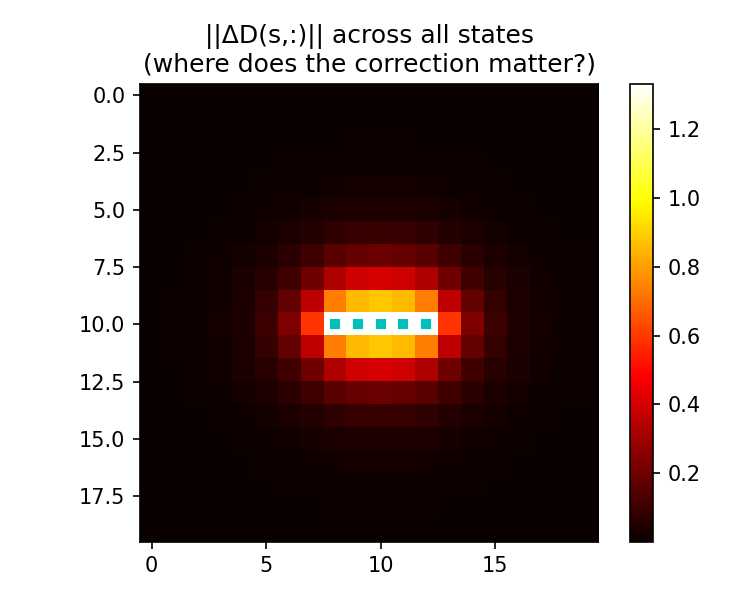
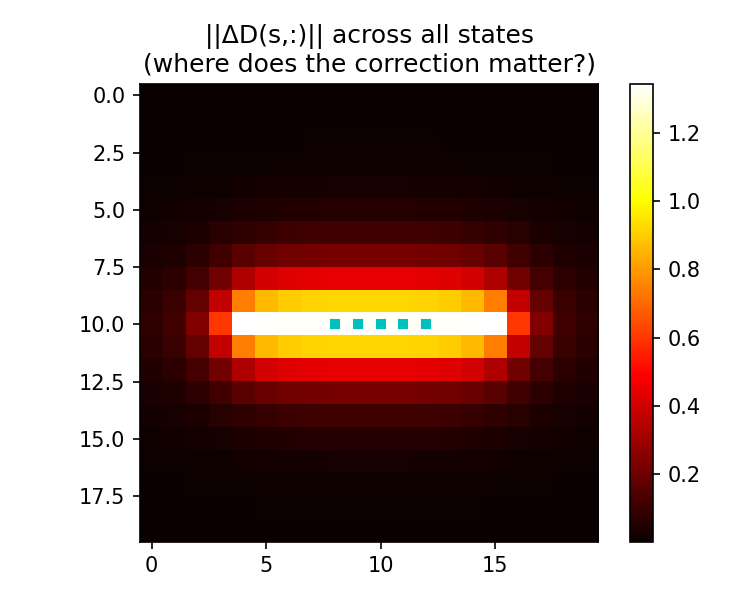
trying to get minigrid wrapper working

diff --git a/src/test_minigrid_baseline.py b/src/test_minigrid_baseline.py
@@ -1,106 +1,131 @@
+# Supress warnings
+import warnings
+warnings.filterwarnings("ignore", category=UserWarning, module="pygame")
+
 import os
 import sys
 
 import numpy as np
 import matplotlib.pyplot as plt
 
-
-
-sys.path.append(os.path.dirname(os.path.abspath(__file__)))
-
 from envs.barrier_grid import create_open_env, create_baseline_env_with_barrier
-from utils import get_complete_DR
 from networks.repair import RepairNetworkLinear
+from utils import get_complete_DR
 
-# Create environments
-print("Creating open environment (20x20)...")
+# Make environments
 env_open = create_open_env(size=22)  # 20x20 internal + 2 boundary walls
 env_open.reset()
-
-print("Creating environment with barrier...")
 env_barrier = create_baseline_env_with_barrier()
 env_barrier.reset()
-
-# Get transition matrices
-print("\nComputing transition matrices...")
 T_open = env_open.get_transition_matrix()
 T_barrier = env_barrier.get_transition_matrix()
-
-print(f"T_open shape: {T_open.shape}")
-print(f"T_barrier shape: {T_barrier.shape}")
-print(f"T_open sum per row (should be ~1.0): {T_open.sum(axis=1)[:5]}")
-
-# Compute DRs using existing utils
-print("\nComputing D_os (open field DR)...")
 D_os = get_complete_DR(T=T_open)
-print(f"D_os shape: {D_os.shape}")
-
-print("\nComputing D_true (with barrier DR)...")
 D_true = get_complete_DR(T=T_barrier)
-print(f"D_true shape: {D_true.shape}")
 
-# Visualize the correction
-print("\nVisualizing correction ΔD...")
-delta_D = D_true - D_os
-
-# Grid dimensions (internal, excluding walls)
+# Fixed variables
 ROWS, COLS = 20, 20
+NUM_STATES = ROWS * COLS
+COST = 0.1
 
-# Pick a probe state near the barrier
-# Barrier is at row 10 (internal coords), cols 8-12
-# Let's pick state one row above, middle of barrier
-probe_state = 9 * COLS + 10  # row 9, col 10
-probe_row = delta_D[probe_state].reshape(ROWS, COLS)
+# Hyperparameters
+HIDDEN_DIM = 400
+LR = 1e-3
+NUM_STEPS = 5000
+BATCH_SIZE = 256
+GAMMA = np.exp(-COST)
 
-# Create visualization
-fig, axes = plt.subplots(1, 3, figsize=(15, 4))
 
-# D_os row for probe state
-im0 = axes[0].imshow(D_os[probe_state].reshape(ROWS, COLS), cmap='viridis')
-axes[0].set_title(f'D_os row (state {probe_state})')
-plt.colorbar(im0, ax=axes[0])
+def test_and_visualize():
+    # Create environments
+    print("Creating open environment (20x20)...")
+    img_open = env_open.render()
+    plt.imsave("figs/minigrid_env_open.png", img_open)
 
-# D_true row for probe state
-im1 = axes[1].imshow(D_true[probe_state].reshape(ROWS, COLS), cmap='viridis')
-axes[1].set_title(f'D_true row (state {probe_state})')
-plt.colorbar(im1, ax=axes[1])
+    print("Creating environment with barrier...")
+    img_barrier = env_barrier.render()
+    plt.imsave("figs/minigrid_env_1barrier.png", img_barrier)
 
-# ΔD row — this is what the repair network needs to learn
-im2 = axes[2].imshow(probe_row, cmap='RdBu_r',
-                      vmin=-np.abs(probe_row).max(),
-                      vmax=np.abs(probe_row).max())
-axes[2].set_title(f'ΔD row (state {probe_state})')
-plt.colorbar(im2, ax=axes[2])
+    # Get transition matrices
+    print("\nTesting transition matrices...")
+    print(f"T_open shape: {T_open.shape}")
+    print(f"T_barrier shape: {T_barrier.shape}")
 
-# Mark barrier (internal coords: row 10, cols 8-12)
-for ax in axes:
+    # Compute DRs using existing utils
+    print("\nComputing D_os (open field DR)...")
+    print(f"D_os shape: {D_os.shape}")
+
+    print("\nComputing D_true (with barrier DR)...")
+    print(f"D_true shape: {D_true.shape}")
+
+    # Visualize the correction
+    print("\nVisualizing correction ΔD...")
+    delta_D = D_true - D_os
+
+    # Grid dimensions (internal, excluding walls)
+    ROWS, COLS = 20, 20
+
+    # Probe state in middle of barrier
+    probe_state = 9 * COLS + 10  # row 9, col 10
+    probe_row = delta_D[probe_state].reshape(ROWS, COLS)
+
+    # Create visualization
+    fig, axes = plt.subplots(1, 3, figsize=(15, 4))
+
+    # D_os row for probe state
+    im0 = axes[0].imshow(D_os[probe_state].reshape(ROWS, COLS), cmap='viridis')
+    axes[0].set_title(f'D_os row (state {probe_state})')
+    plt.colorbar(im0, ax=axes[0])
+
+    # D_true row for probe state
+    im1 = axes[1].imshow(D_true[probe_state].reshape(ROWS, COLS), cmap='viridis')
+    axes[1].set_title(f'D_true row (state {probe_state})')
+    plt.colorbar(im1, ax=axes[1])
+
+    # ΔD row — this is what the repair network needs to learn
+    im2 = axes[2].imshow(probe_row, cmap='RdBu_r',
+                        vmin=-np.abs(probe_row).max(),
+                        vmax=np.abs(probe_row).max())
+    axes[2].set_title(f'ΔD row (state {probe_state})')
+    plt.colorbar(im2, ax=axes[2])
+
+    # Mark barrier (internal coords: row 10, cols 8-12)
+    for ax in axes:
+        for col in range(8, 13):
+            ax.plot(col, 10, 'ks', markersize=4)
+
+    plt.tight_layout()
+    os.makedirs('figs', exist_ok=True)
+    plt.savefig('figs/minigrid_baseline_test.png', dpi=150)
+
+    # Check correction locality
+    delta_norms = np.linalg.norm(delta_D, axis=1).reshape(ROWS, COLS)
+    fig2, ax2 = plt.subplots(figsize=(5, 4))
+    im = ax2.imshow(delta_norms, cmap='hot')
+    ax2.set_title('||ΔD(s,:)|| across all states\n(where does the correction matter?)')
     for col in range(8, 13):
-        ax.plot(col, 10, 'ks', markersize=4)
+        ax2.plot(col, 10, 'cs', markersize=4)
+    plt.colorbar(im, ax=ax2)
+    plt.tight_layout()
+    plt.savefig('figs/minigrid_correction_locality.png', dpi=150)
 
-plt.tight_layout()
-os.makedirs('figs', exist_ok=True)
-plt.savefig('figs/minigrid_baseline_test.png', dpi=150)
-print("Saved: figs/minigrid_baseline_test.png")
+    # Compare with original baseline
+    print("\n" + "="*60)
+    print("Verification complete!")
+    print("="*60)
+    print(f"Number of states: {T_open.shape[0]}")
+    print(f"D_os range: [{D_os.min():.3f}, {D_os.max():.3f}]")
+    print(f"D_true range: [{D_true.min():.3f}, {D_true.max():.3f}]")
+    print(f"||ΔD|| (Frobenius): {np.linalg.norm(delta_D):.3f}")
+    print(f"Relative change: {np.linalg.norm(delta_D) / np.linalg.norm(D_os):.3f}")
+    print("\nEnvironment is ready for repair network training!")
 
-# Check correction locality
-delta_norms = np.linalg.norm(delta_D, axis=1).reshape(ROWS, COLS)
-fig2, ax2 = plt.subplots(figsize=(5, 4))
-im = ax2.imshow(delta_norms, cmap='hot')
-ax2.set_title('||ΔD(s,:)|| across all states\n(where does the correction matter?)')
-for col in range(8, 13):
-    ax2.plot(col, 10, 'cs', markersize=4)
-plt.colorbar(im, ax=ax2)
-plt.tight_layout()
-plt.savefig('figs/minigrid_correction_locality.png', dpi=150)
-print("Saved: figs/minigrid_correction_locality.png")
+def train_single_barrier():
+    for step in range(NUM_STEPS):
+        action = env_open.action_space.sample()
+        print(env_open.step(action))
+        break
+    
 
-# Compare with original baseline
-print("\n" + "="*60)
-print("Verification complete!")
-print("="*60)
-print(f"Number of states: {T_open.shape[0]}")
-print(f"D_os range: [{D_os.min():.3f}, {D_os.max():.3f}]")
-print(f"D_true range: [{D_true.min():.3f}, {D_true.max():.3f}]")
-print(f"||ΔD|| (Frobenius): {np.linalg.norm(delta_D):.3f}")
-print(f"Relative change: {np.linalg.norm(delta_D) / np.linalg.norm(D_os):.3f}")
-print("\nEnvironment is ready for repair network training!")
+if __name__ == '__main__':
+    test_and_visualize()
+    # train_single_barrier()

diff --git a/src/test_baseline.py b/src/test_baseline.py
@@ -5,10 +5,7 @@ import numpy as np
 import torch
 import torch.nn as nn
 import matplotlib.pyplot as plt
-
-
-# Add parent dir to path so we can import from src
-sys.path.append(os.path.dirname(os.path.abspath(__file__)))
+from tqdm import tqdm
 
 from utils import create_transition_open, get_complete_DR, woodbury_complete
 from networks.repair import RepairNetworkLinear
@@ -142,9 +139,9 @@ print("\nTraining repair network...")
 device = torch.device('mps')
 
 # Hyperparameters
-HIDDEN_DIM = 400
+RANK = 400
 LR = 1e-3
-NUM_STEPS = 5000
+NUM_STEPS = 50000
 BATCH_SIZE = 256
 GAMMA = np.exp(-COST)  # discount = exp(-c) since cost is uniform
 
@@ -153,7 +150,7 @@ coords_all = torch.tensor(all_coords(), device=device)              # (400, 2)
 D_os_tensor = torch.tensor(D_os, dtype=torch.float32, device=device) # (400, 400)
 
 # Model
-model = RepairNetworkLinear(num_states=NUM_STATES, hidden_dim=HIDDEN_DIM).to(device)
+model = RepairNetworkLinear(num_states=NUM_STATES, hidden_dim=RANK).to(device)
 optimizer = torch.optim.Adam(model.parameters(), lr=LR)
 
 # One-hot vectors for the "feature" in DR TD update
@@ -161,7 +158,7 @@ eye = torch.eye(NUM_STATES, device=device)
 
 losses = []
 
-for step in range(NUM_STEPS):
+for step in tqdm(range(NUM_STEPS)):
     # Sample batch of random states (not barrier states)
     valid_states = [s for s in range(NUM_STATES) if s not in barrier_states]
     batch_states = np.random.choice(valid_states, size=BATCH_SIZE)
@@ -194,7 +191,7 @@ for step in range(NUM_STEPS):
 
     losses.append(loss.item())
 
-    if (step + 1) % 1000 == 0:
+    if (step + 1) % 10000 == 0:
         print(f"  Step {step+1}/{NUM_STEPS}, Loss: {loss.item():.6f}")
 
 
@@ -239,7 +236,7 @@ for ax in axes:
         ax.plot(bc, br, 'ks', markersize=4)
 
 plt.tight_layout()
-plt.savefig('figs/BaselineSingleBarrierComparison.png', dpi=150)
+plt.savefig('figs/baseline_1barrier_comparison.png', dpi=150)
 print("  Saved comparison image")
 
 # Loss curve
@@ -249,7 +246,7 @@ ax3.set_xlabel('Step (x100)')
 ax3.set_ylabel('TD Loss')
 ax3.set_title('Training Loss')
 plt.tight_layout()
-plt.savefig('figs/BaselineSingleBarrierLossCurve.png', dpi=150)
+plt.savefig('figs/baseline_1barrier_loss.png', dpi=150)
 print("  Saved loss curve image")
 
 print("\nDone!")

diff --git a/src/wrappers/tabular_wrapper.py b/src/wrappers/tabular_wrapper.py
@@ -1,0 +1,45 @@
+from gymnasium.core import ObservationWrapper
+
+class TabularWrapper(ObservationWrapper):
+  """Wrapper to convert a GridWorld environment into a tabular one."""
+
+  def __init__(self, env, tile_size=8, get_rgb=False):
+    super().__init__(env)
+
+    self.tile_size = tile_size
+    self.get_rgb = get_rgb
+    self.pos_to_state = {}
+    self.state_to_pos = {}
+    curr_state = 0
+    for y in range(self.height):
+      for x in range(self.width):
+        curr_cell = env.grid.get(x, y)
+        grid_pos = x + y * env.width
+        if (curr_cell is not None and curr_cell.type != 'goal' and
+            curr_cell.type != 'lava'):
+          self.pos_to_state[grid_pos] = -1
+        else:
+          self.pos_to_state[grid_pos] = curr_state
+          self.state_to_pos[curr_state] = [x, y]
+          curr_state += 1
+    self.num_states = curr_state
+    obs_space_dict = {'state': gym.spaces.Discrete(self.num_states)}
+    if self.get_rgb and 'image' in self.observation_space.spaces:
+      # Re-use the image obs spec from the env we are wrapping.
+      obs_space_dict['image'] = self.observation_space['image']
+    self.observation_space = gym.spaces.Dict(obs_space_dict)
+
+  def observation(self, obs=None):
+    if obs is None:
+      obs = self.gen_obs()
+    env = self.unwrapped
+    agent_x_pos, agent_y_pos = env.agent_pos
+    state_number = self.pos_to_state[agent_x_pos + agent_y_pos * env.width]
+
+    if self.get_rgb:
+      rgb_img = env.render(
+          mode='rgb_array', highlight=False, tile_size=self.tile_size)
+
+      return {'state': state_number, 'image': rgb_img}
+    else:
+      return {'state': state_number}

diff --git a/src/envs/barrier_grid.py b/src/envs/barrier_grid.py
@@ -141,9 +141,9 @@ def create_baseline_env_with_barrier():
     """
     env = BarrierGridEnv(
         size=22,
-        barriers=[('horz', 9, 11, 5)],  # horizontal wall of length 5
+        barriers=[('horz', 5, 11, 12)],  # horizontal wall of length 5
         agent_start_pos=(1, 1),
-        render_mode=None
+        render_mode='rgb_array'
     )
     return env
 
@@ -159,6 +159,6 @@ def create_open_env(size=22):
         size=size,
         barriers=[],
         agent_start_pos=(1, 1),
-        render_mode=None
+        render_mode='rgb_array'
     )
     return env

diff --git a/src/wrappers/test_wrappers.py b/src/wrappers/test_wrappers.py
@@ -1,0 +1,8 @@
+import gymnasium as gym
+from minigrid.envs import EmptyEnv
+from minigrid.envs.fourrooms import FourRoomsEnv
+
+from tabular_wrapper import TabularWrapper
+
+env = gym.make('MiniGrid-Empty-16x16-v0')
+env = TabularWrapper(env)

diff --git a/src/wrappers/README.md b/src/wrappers/README.md
@@ -1,0 +1,1 @@
+These wrappers were built on top of [google-research's custom wrappers](https://github.com/google-research/google-research/tree/master/minigrid_basics/custom_wrappers).
